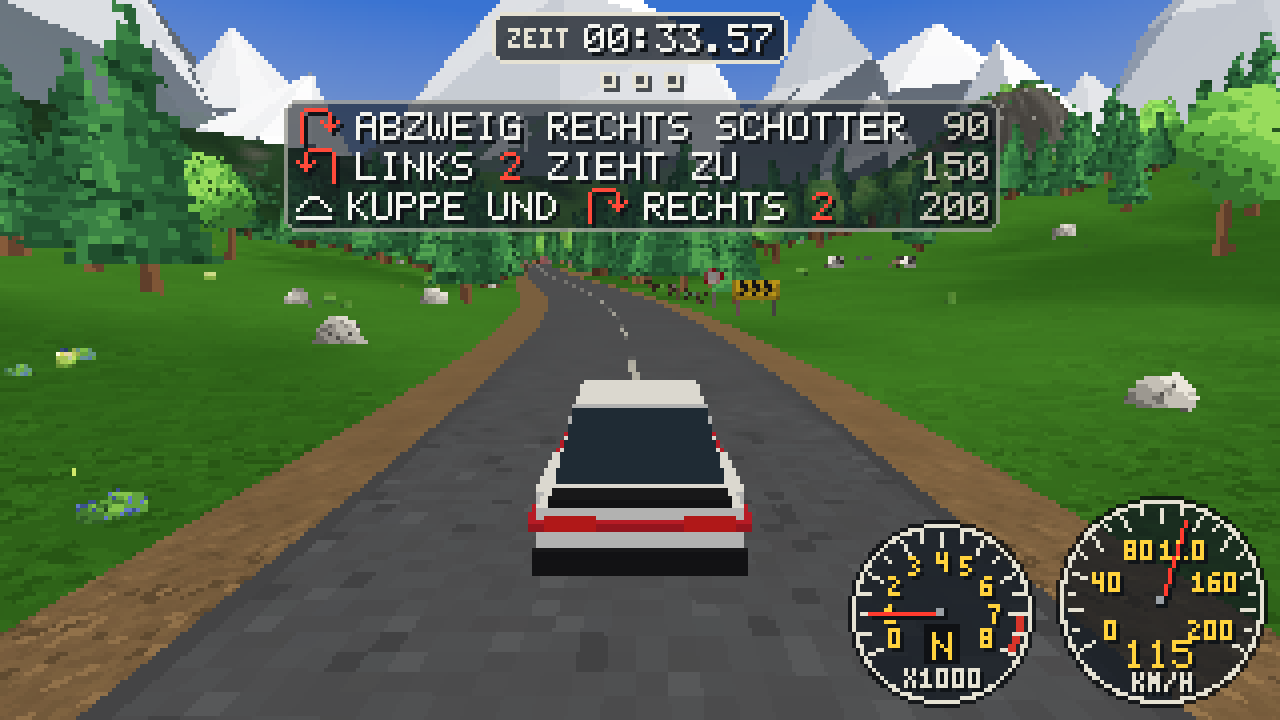
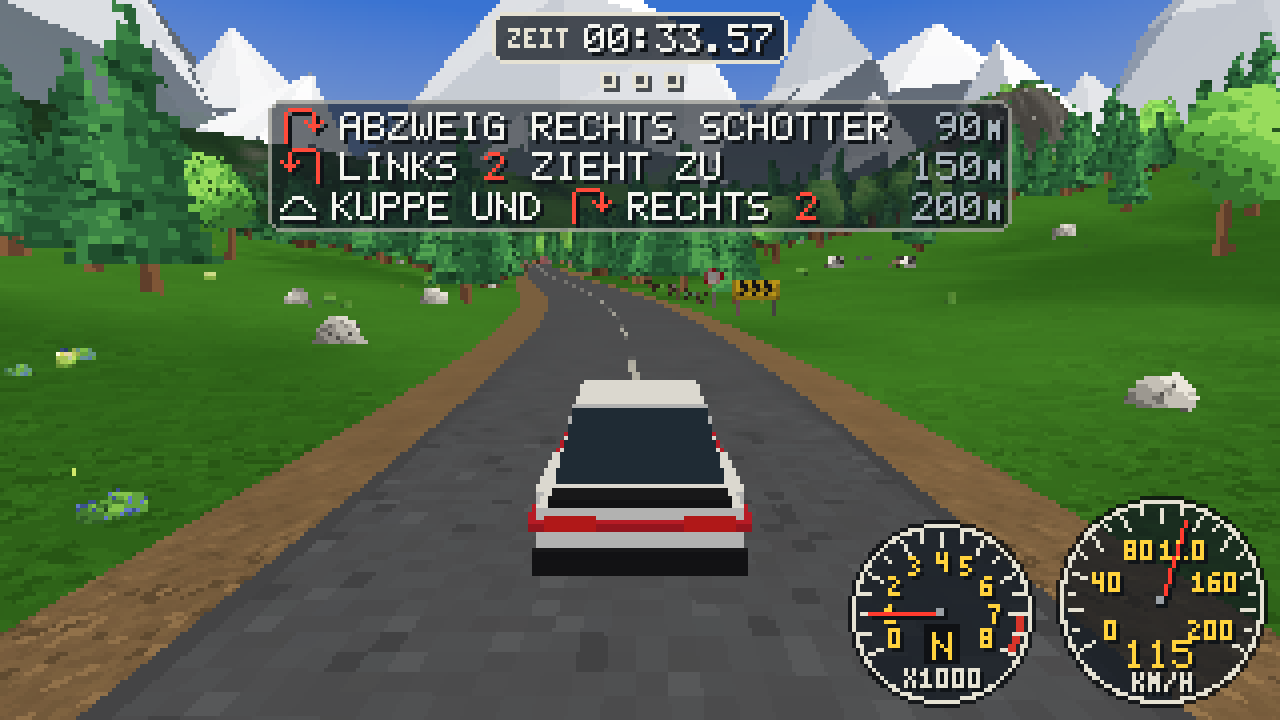
M4: Screenshots mit Distanz-Einheit, Ladezeit und Zeichenaufrufe in STAND.md
Claude-Session: https://claude.ai/code/session_01PS6hZbUfFmWyB3dVsVSdZm

Changed region(s): [[0.1875, 0.1222, 0.8125, 0.3361]]

diff --git a/STAND.md b/STAND.md
@@ -39,7 +39,7 @@ Zeit-Tafel. Kein Ton, nur Symbol und Text. Zeit, Checkpoint-Punkte und Tachos si
 
 Jede Zeile: **Symbol** (Pixel-Pfeil in der Form der Kurve, farbig nach Schwierigkeit) + **Text** (z. B.
 `RECHTS 4 LANG`, die Stufen-Zahl in der Farbe des Symbols) + kleine **Zusatz-Zeichen** (schneiden / nicht schneiden)
-+ rechts die **Distanz** in Metern mit kleinem „m“, die in 10-m-Schritten herunterzählt.
++ rechts die **Distanz** in Metern (graublau, mit kleinem „m“), die in 10-m-Schritten herunterzählt.
 
 - **Höchstens 3 Zeilen**, die dringendste (nächste) oben.
 - **Wann erscheint eine Ansage?** Etwa **7 Sekunden** vorher beim aktuellen Tempo, aber mindestens **100 m** und
@@ -214,7 +214,7 @@ schreibt `js/pacenotes-tempo.js`. Ohne Messung schätzt das Spiel das Tempo aus 
   - (a) 898 Stellen, an denen die Strasse auf 50 m mehr als 25° dreht: alle haben eine Kurven-Ansage.
   - (b) alle 8 Einträge aus `schneiden`/`nichtSchneiden` genau einmal in den Ansagen, an der richtigen Kurve und Seite.
   - (c) Stufen monoton zum gemessenen Grenztempo (Tabelle oben), alle 25 Kurven gemessen, Datei aktuell.
-  - (d) kleinster Abstand zweier Ansagen 36 m (nie unter 25 m), längste Zeile 24 Zeichen.
+  - (d) kleinster Abstand zweier Ansagen 29 m (Felswand → Schikane; nie unter 25 m), längste Zeile 24 Zeichen.
   - (e) alle 3 Abzweige und 3 Einmündungen: Meter wie in `nebenwege`, Richtung wie im Strassennetz (alle Abzweige
     rechts, alle Einmündungen links). Die Ansage gilt ab 4–40 m vor der Kreuzung (ab dem Anfang der Abbiege-Kurve)
     und erscheint bei 50–75 km/h ca. 100–150 m vor der Kreuzung; wer schneller kommt, sieht sie früher (7 s
@@ -236,7 +236,9 @@ schreibt `js/pacenotes-tempo.js`. Ohne Messung schätzt das Spiel das Tempo aus 
 - **Leistung**: Die Tafel wird auf das HUD-Bild gemalt (2D), also **keine neuen Zeichenaufrufe** in der 3D-Szene
   (gleiche Zahl mit Ansagen an und aus). Jede Ansage wird einmal als kleines Bild gemalt, wenn sie zum ersten Mal
   kommt; pro Bild kommen nur dieses Bild und die Distanz dazu, ohne neue Objekte (kein Müll für den Speicher).
-  **Ladezeit**: LADEZEIT_PLATZHALTER
+  **Zeichenaufrufe** vor dem Abzweig Talschleife: 96 mit Ansagen, 96 ohne (N).
+  **Ladezeit** (`node tools/ladezeit.mjs`, 9 Messungen abwechselnd, Median): 1547 → 1469 ms – der Unterschied ist
+  Messrauschen; die Berechnung selbst dauert im Spiel 3–5 ms (beim allerersten Mal bis ca. 20 ms), Budget +50 ms.
 
 ### Ehrlich beurteilt
 
